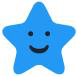
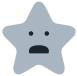
rating common wiget

diff --git a/lib/core/constants/app_icon_assets.dart b/lib/core/constants/app_icon_assets.dart
@@ -298,11 +298,11 @@ class AppIconAssets {
   static String calander = "${AppConstants.baseIconAssetsPath}calander.png";
   static String chat_media_forward = "${iconPath}chat_media_forward.svg";
 
-  static String rating1="${iconPath}happy_rating.svg";
-  static String rating2="${iconPath}happyfour_rating.svg";
+  static String rating1="${iconPath}sad_rating.svg";
+  static String rating2="${iconPath}last_rating.svg";
   static String rating3="${iconPath}moderatethree.svg";
-  static String rating4="${iconPath}last_rating.svg";
-  static String rating5="${iconPath}sad_rating.svg";
+  static String rating4="${iconPath}happyfour_rating.svg";
+  static String rating5="${iconPath}happy_rating.svg";
   static String filledstar="${iconPath}filled_rating.svg";
   static String chat_double_tick = "${iconPath}chat_double_tick.svg";
   static String progressIndicator = "${iconPath}progress_indicator.svg";

diff --git a/lib/features/business/widgets/rating_widget.dart b/lib/features/business/widgets/rating_widget.dart
@@ -11,12 +11,12 @@ import '../auth/model/viewBusinessProfileModel.dart';
 
 class RatingReviewCard extends StatelessWidget {
   final String businessId;
-  final BusinessProfileDetails? businessProfile;
+  final int? rating;
 
   const RatingReviewCard({
     super.key,
     required this.businessId,
-    required this.businessProfile,
+    required this.rating,
   });
 
   @override
@@ -58,7 +58,7 @@ class RatingReviewCard extends StatelessWidget {
               crossAxisAlignment: CrossAxisAlignment.center,
               mainAxisAlignment: MainAxisAlignment.center,
               children: [
-                 RatingStars(selectedIndex: businessProfile?.rating??0),
+                 RatingStars(selectedIndex: rating??0),
                 const SizedBox(height: 6),
                 GestureDetector(
                   onTap: () {

diff --git a/lib/features/business/visit_business_profile/view/visit_business_profile.dart b/lib/features/business/visit_business_profile/view/visit_business_profile.dart
@@ -144,7 +144,7 @@ class VisitBusinessProfileState extends State<VisitBusinessProfile> with SingleT
                       children: [
                         RatingReviewCard(
                           businessId: widget.businessId,
-                          businessProfile: businessData,
+                          rating: businessData?.rating??0,
                         ),
                         const SizedBox(height: 30),
                         AboutBusinessWidget(
